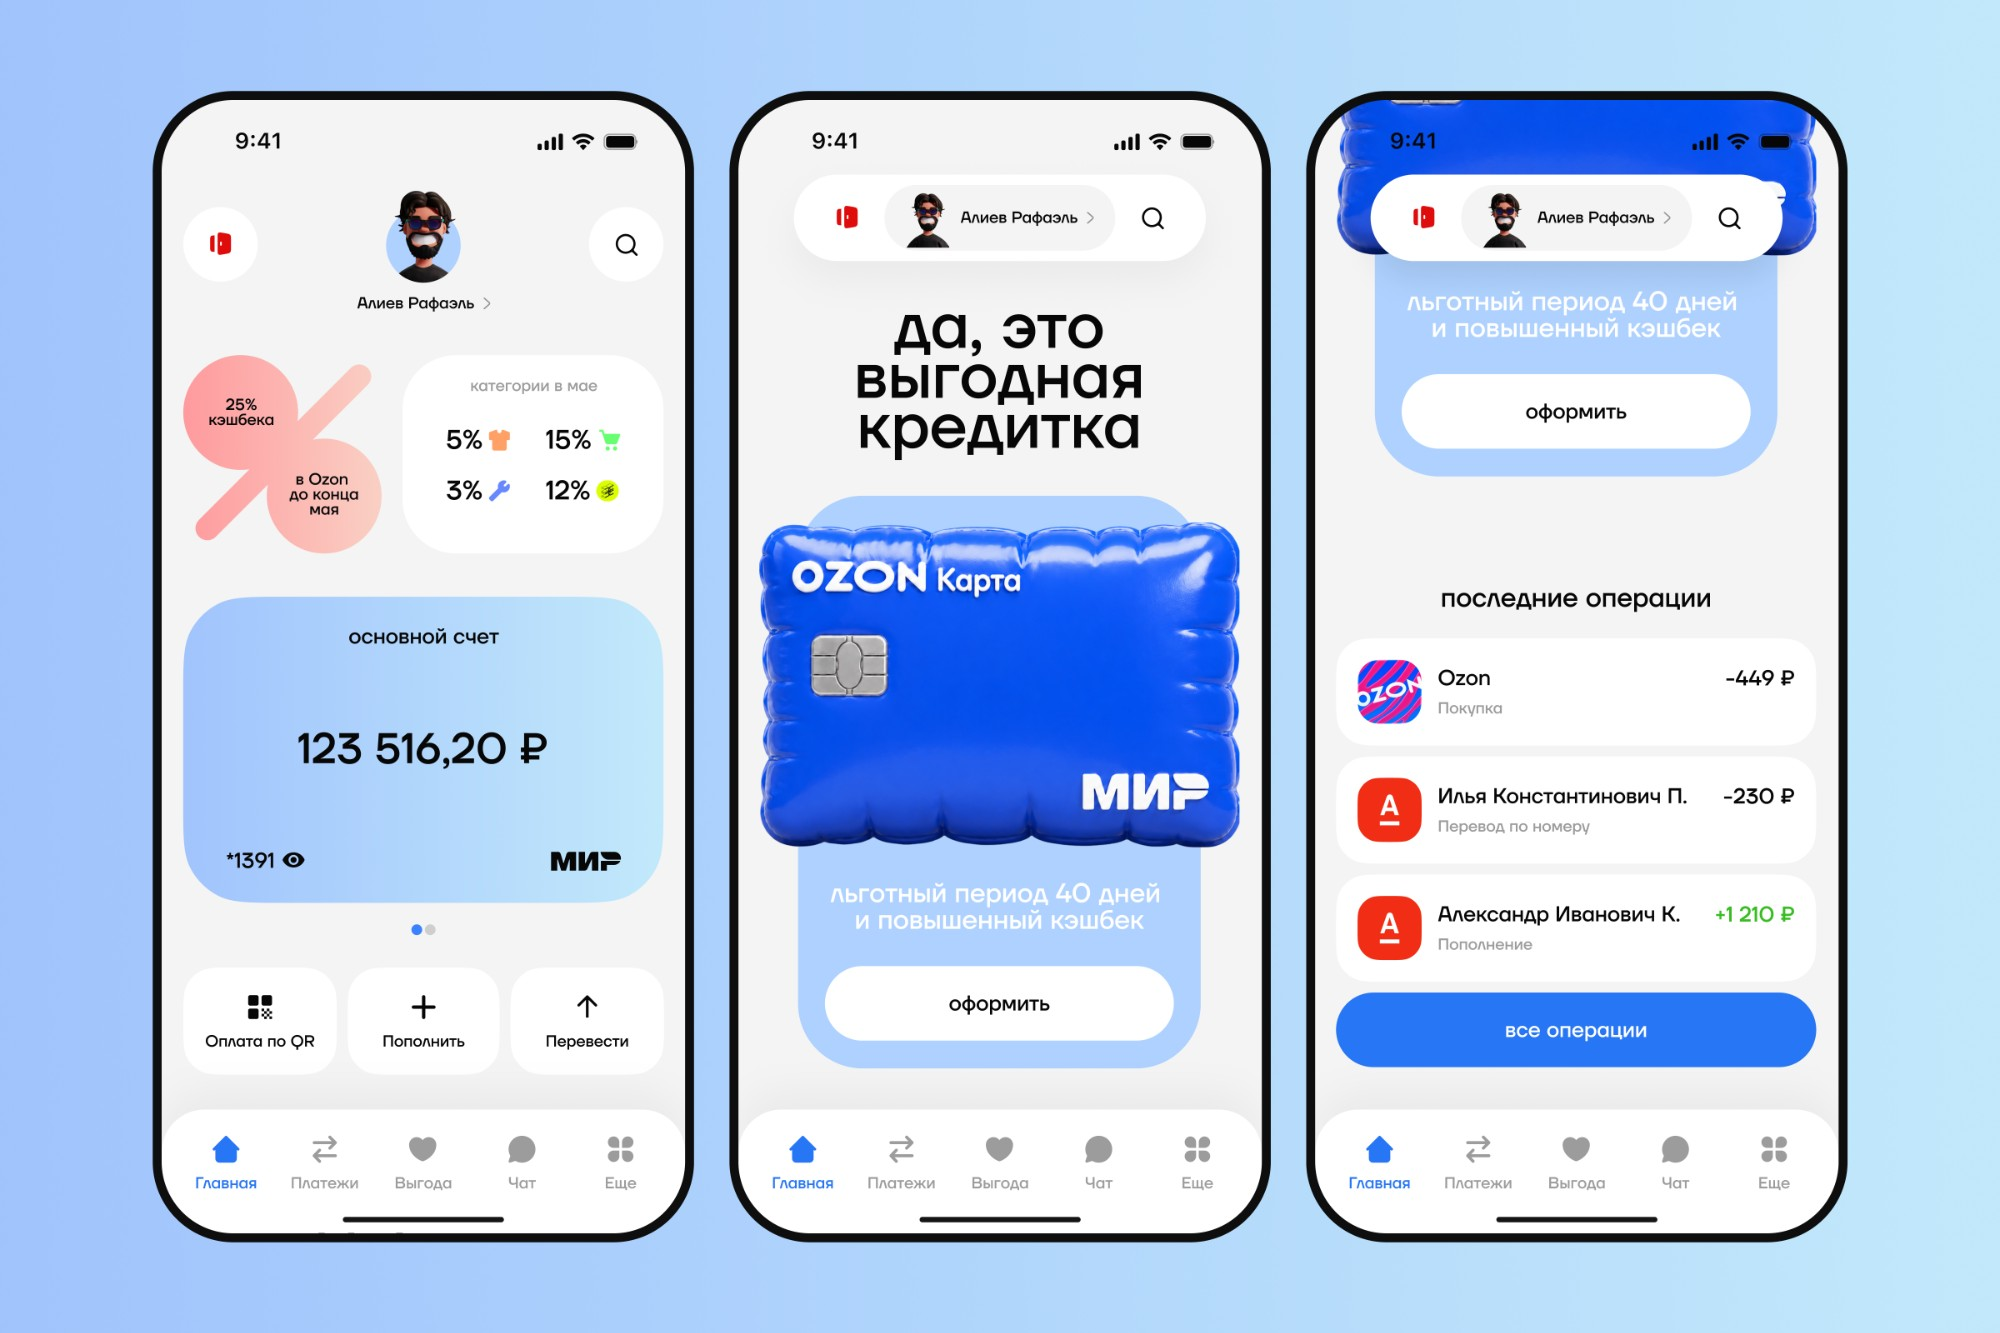
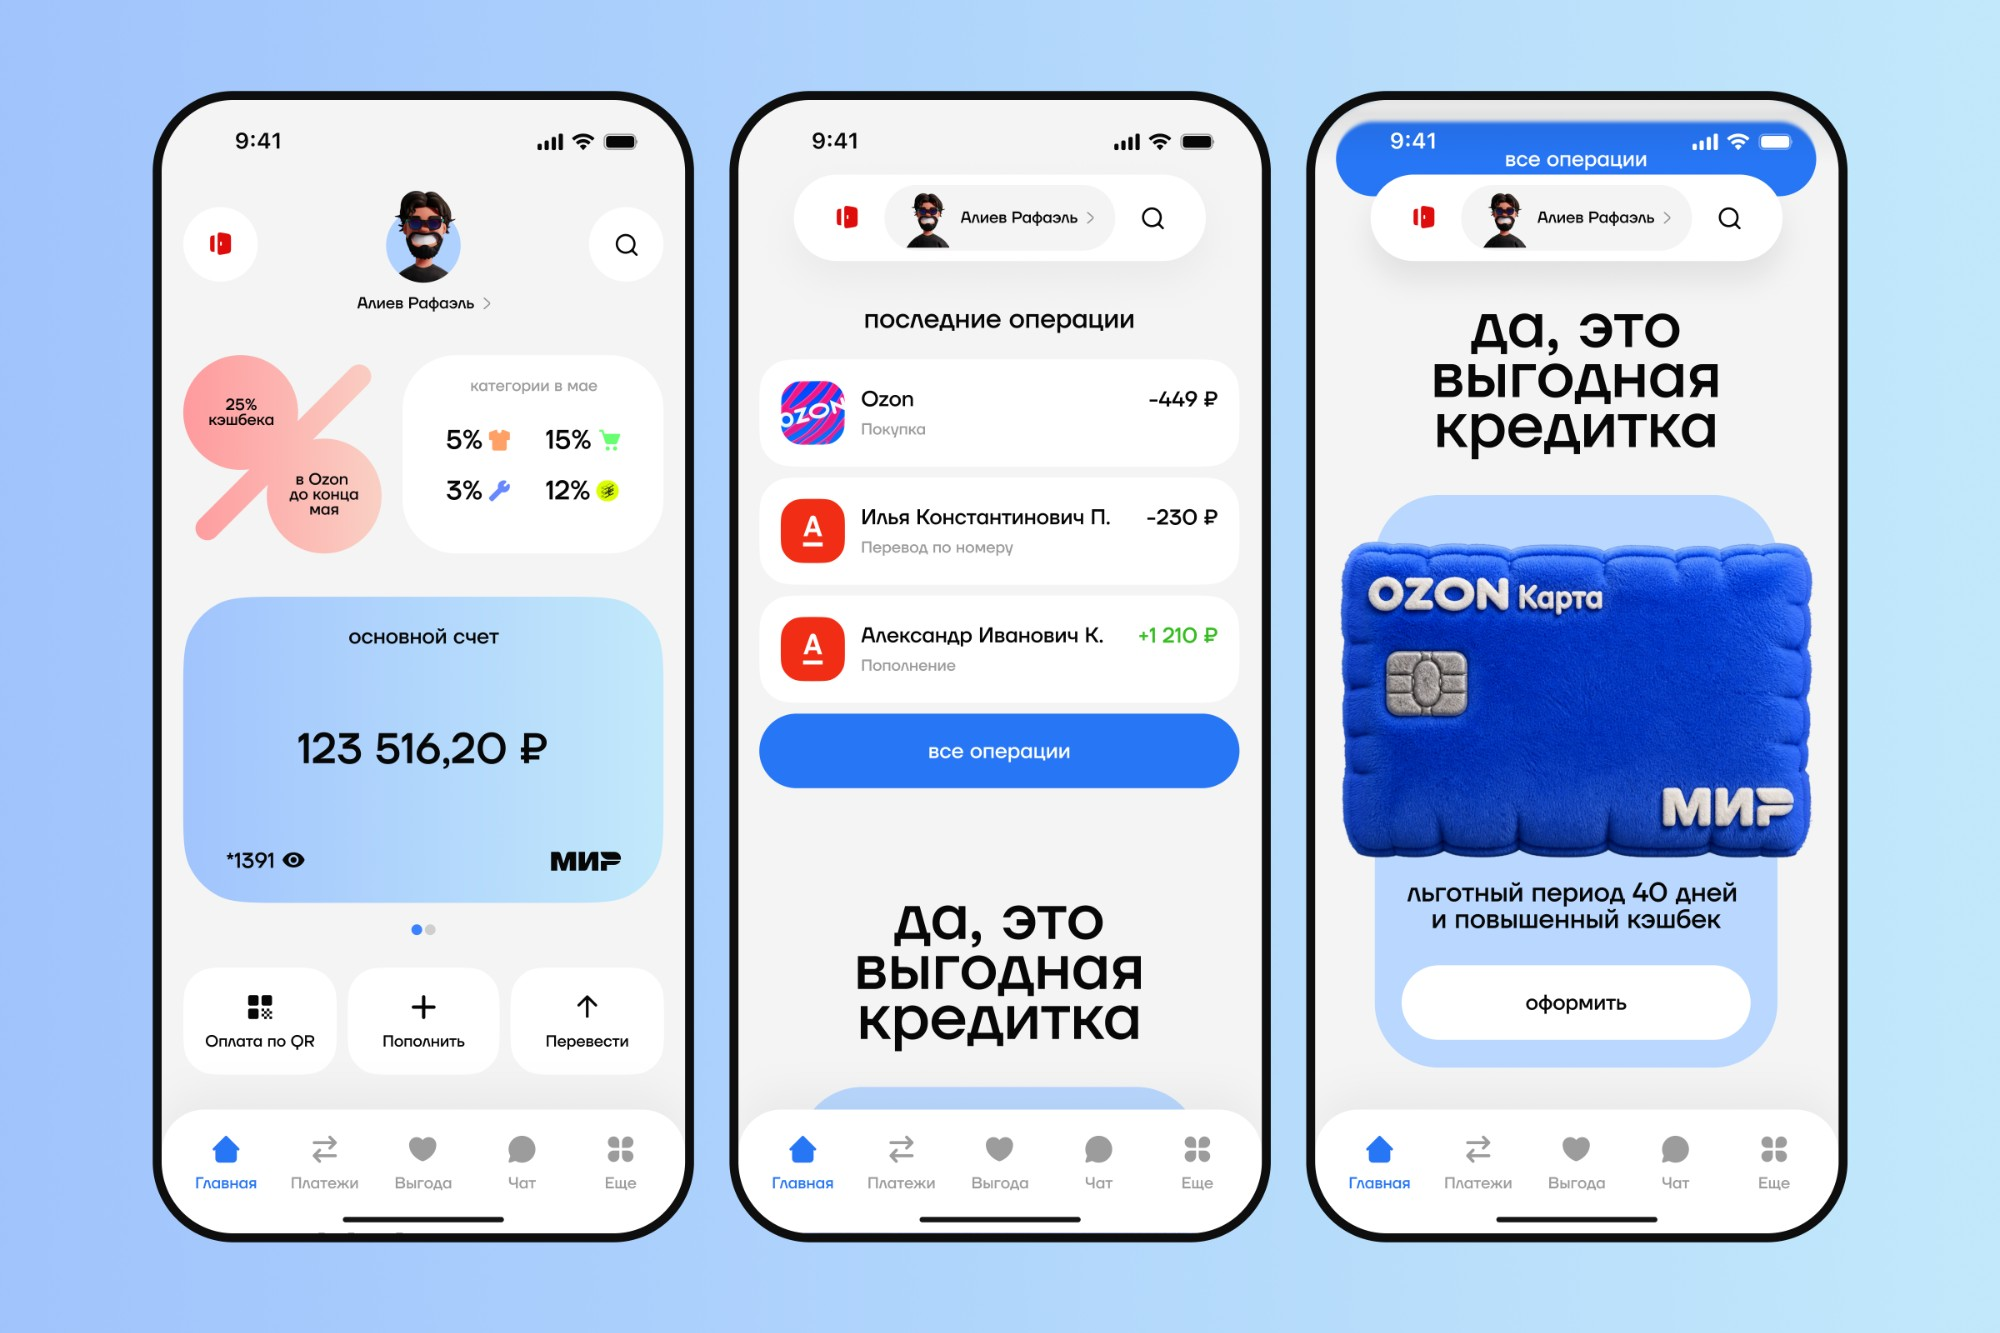
Replace Ozon Bank concept (shot-3) with new version

Changed region(s): [[0.651, 0.0615, 0.93, 0.7997], [0.372, 0.3691, 0.62, 0.8305], [0.372, 0.2153, 0.62, 0.3383]]

diff --git a/index.html b/index.html
@@ -667,7 +667,7 @@
             <article class="shots__item reveal">
               <img
                 class="shots__image"
-                src="./assets/images/home/shots/shot-3.png?v=20260507-shots-ozon-bank-1"
+                src="./assets/images/home/shots/shot-3.png?v=20260517-shots-ozon-bank-2"
                 alt="Редизайн главной страницы приложения Озон Банка"
                 loading="lazy"
                 decoding="async"
